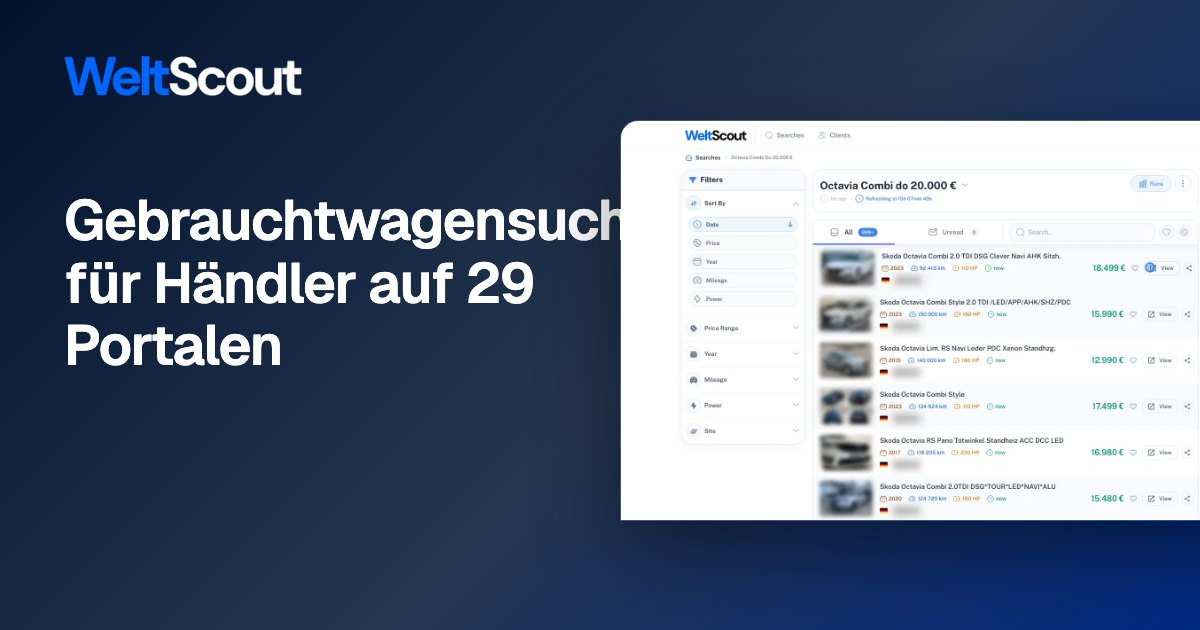
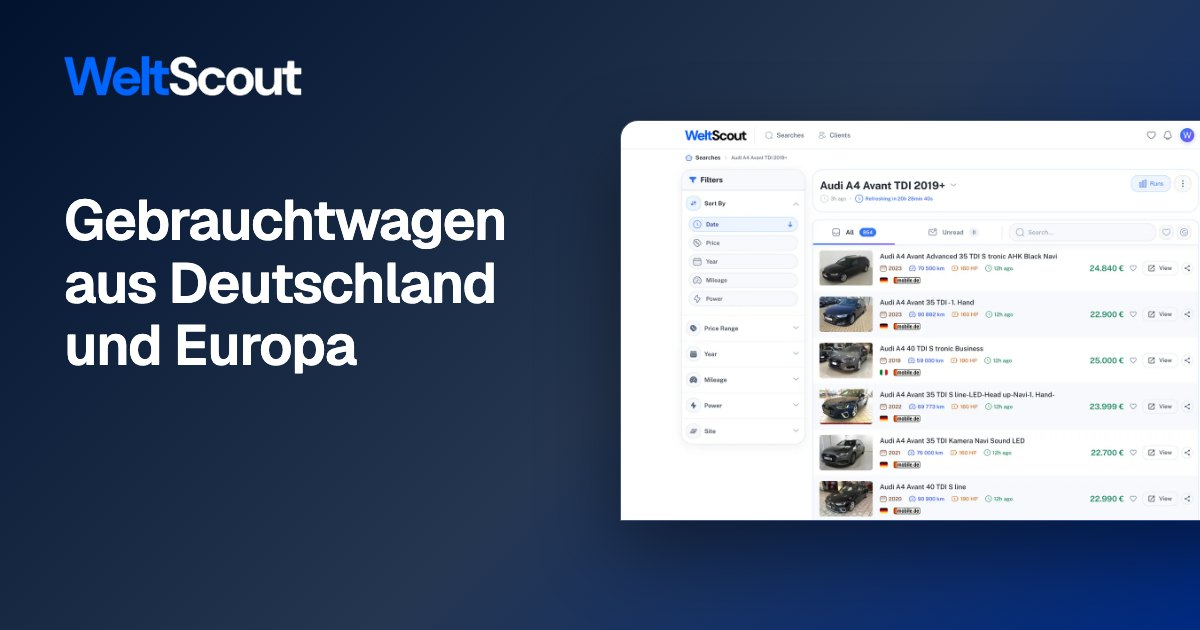
OG images re-rendered from the new titles, published under content-hashed names; H1 fit in DESIGN.md
- img/og/<lang>.jpg re-rendered with deploy/og.js (titles from round home-copy).
- build.py publishes each as img/og/<lang>-<sha256[:10]>.jpg and every home and
  legal page points og:image/twitter:image there, so a re-render gets a new URL and
  the Bunny or social caches cannot keep the old picture. Test first.
- DESIGN.md Typography: the hero H1 fit (--fit on h1, deploy/h1_fit.py).

diff --git a/deploy/build.py b/deploy/build.py
@@ -1,6 +1,6 @@
 """Build the site: one /<code>/ page per language declared in deploy/langs.json. Generated from langs.json (site, indexable, locale, crawlers): language switcher, hreflang, canonical, robots meta, Open Graph/Twitter tags, JSON-LD URLs and inLanguage, robots.txt, sitemap.xml, llms.txt, vercel.json. Fails loudly when an expected element is missing."""
 
-import html as htmllib, json, os, pathlib, re, shutil, struct, sys
+import hashlib, html as htmllib, json, os, pathlib, re, shutil, struct, sys
 
 sys.path.insert(0, str(pathlib.Path(__file__).resolve().parent))
 import blog  # noqa: E402
@@ -209,7 +209,7 @@ def seo(html, page, live):
             page,
             f"{ogimg_file.name}: og image missing or not 1200x630 (run deploy/og.js)",
         )
-    ogimg = f"{site}/img/og/{page}.jpg"
+    ogimg = site + og_image_path(page)
     q = lambda v: htmllib.escape(v, quote=True)
     locs = [loc for l in live for loc in l["locale"]]
     html, n = re.subn(r'<link rel="icon"[^>]*>', lambda _: icon_tags(), html, count=1)
@@ -479,6 +479,13 @@ API_PREFIX = "/api/"
 FONT_EXT = "geist-latin-ext.woff2"
 TERMS_STEM = "terms-and-conditions"
 LEGAL_HUB = "/legal"
+
+
+def og_image_path(code):
+    """The OG image is published under a name that carries a hash of its bytes (copied in at the end of the build),
+    so a re-rendered image gets a new URL and no CDN or social-network cache can keep showing the old one."""
+    src = SRC / "img" / "og" / f"{code}.jpg"
+    return f"/img/og/{code}-{hashlib.sha256(src.read_bytes()).hexdigest()[:10]}.jpg"
 
 
 def legal_slug(code, stem):
@@ -842,7 +849,7 @@ def legal_pages(live, sources):
                 f'<meta name="description" content="{e(desc)}">{robots}<link rel="canonical" href="{canon}">{alts}'
                 f'<meta property="og:type" content="website"><meta property="og:title" content="{e(title)} | WeltScout">'
                 f'<meta property="og:description" content="{e(desc)}"><meta property="og:url" content="{canon}">'
-                f'<meta property="og:locale" content="{l["locale"][0]}"><meta property="og:image" content="{site}/img/og/{code}.jpg">'
+                f'<meta property="og:locale" content="{l["locale"][0]}"><meta property="og:image" content="{site}{og_image_path(code)}">'
                 '<meta property="og:image:width" content="1200"><meta property="og:image:height" content="630">'
             )
             url = legal_url(code, s)
@@ -1011,6 +1018,8 @@ sitemap = sitemap.replace(
 shutil.copy(SRC / "tokens.css", OUT / "tokens.css")
 for d in ("img", "fonts"):
     shutil.copytree(SRC / d, OUT / d)
+for l in live:
+    shutil.copy(SRC / "img" / "og" / f"{l['code']}.jpg", OUT / og_image_path(l["code"]).lstrip("/"))
 shutil.copytree(SRC / "deploy" / "api", OUT / "api")
 cfg = json.loads((SRC / "deploy" / "vercel.base.json").read_text())
 if CONF["indexable"]:

diff --git a/deploy/test_build_output.py b/deploy/test_build_output.py
@@ -234,6 +234,21 @@ class BuildOutput(unittest.TestCase):
         ld = json.loads(re.search(r'<script type="application/ld\+json">(.*?)</script>', html, re.S).group(1))
         return canon, {n["@type"]: n for n in ld["@graph"]}
 
+    def test_og_image_url_changes_with_the_image_so_caches_cannot_serve_the_old_one(self):
+        # The OG image is re-rendered when titles change; the CDN keeps a URL for days, so the
+        # built name carries a hash of the image's bytes and every page points at that name.
+        import hashlib, re
+        for c in self.langs():
+            src = (ROOT / "img" / "og" / f"{c}.jpg").read_bytes()
+            want = f"/img/og/{c}-{hashlib.sha256(src).hexdigest()[:10]}.jpg"
+            pages = [self.out / c / "index.html"] + [p for p in (self.out / c).glob("*/index.html") if "blog" not in p.parts]
+            for page in pages:
+                html = page.read_text()
+                for url in re.findall(r'<meta (?:property="og:image"|name="twitter:image") content="([^"]+)"', html):
+                    if "/img/og/" in url:
+                        self.assertTrue(url.endswith(want), (page, url))
+            self.assertEqual((self.out / want.lstrip("/")).read_bytes(), src, c)
+
     def test_social_previews_repeat_the_title_and_meta_description(self):
         # One source: og:* and twitter:* are derived from <title> and the meta description,
         # so a copy change cannot leave a stale preview behind.

diff --git a/DESIGN.md b/DESIGN.md
@@ -221,7 +221,7 @@ A cool, light palette: navy ink on pale grey, with one blue that acts and one gr
 **Character:** One technical sans carries everything. Hierarchy comes from size jumps and tight negative tracking on headings, not from a second family.
 
 ### Hierarchy
-- **Display** (600, clamp(40px, 3.6vw, 54px) at ≥980 px, clamp(44px, 4.4vw, 64px) between 601 and 979 px, clamp(32px, 10vw, 38px) on phones; line-height 1.02; tracking −0.05em): the hero H1 only. Two sentences: a neutral first line and a bold (700) Trial Green second line. Each sentence stays at most 3 lines at 390 px in all 7 languages.
+- **Display** (600, clamp(40px, 3.6vw, 54px) at ≥980 px, clamp(44px, 4.4vw, 64px) between 601 and 979 px, clamp(32px, 10vw, 38px) on phones; line-height 1.02; tracking −0.05em): the hero H1 only. Two sentences: a neutral first line and a bold (700) Trial Green second line. Each sentence stays at most 3 lines at 390 px in all 7 languages. **H1 fit:** the keyword line (first sentence) never takes a third row at 320, 390 or 1440 px. `<h1 style="--fit:N">` holds the width in em that this line needs for two rows, and the two lines are sized `min(1em, 100cqi / var(--fit))` with the H1 as an inline-size container: where the line already fits, the breakpoint size above stays (sl), otherwise both lines shrink together just enough. `deploy/h1_fit.py` measures `--fit` in a browser and writes it into the 7 sources; run it after any change to the H1 copy.
 - **Headline** (600, clamp(32px, 4.2vw, 54px), 1.04, −0.035em, max 20ch, balanced wrap): section h2. The proof band's numbers are the one larger statement (clamp(40px, 4.8vw, 64px), −0.045em, line-height 1, tabular figures).
 - **Price** (600, clamp(44px, 4.2vw, 56px), 1, −0.05em, tabular figures): plan prices.
 - **Title** (600, 20 to 30px, 1.2, −0.02em): card titles, plan names (20px), tab panel heading (30px).
